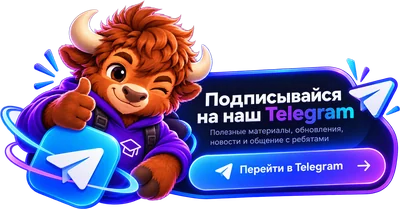
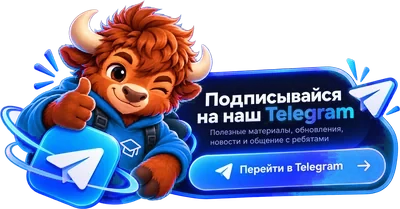
feat(brand): blue glow for the bison and brand art, bot images in blue
The approved sky-blue palette reaches the raster art: violet glows and
highlights of the logo bison, support/hero/landing mascots, onboarding,
Telegram promo and learning icons are shifted to the accent blue (fur,
eyes and horns untouched). Bot welcome and iOS-guide images re-rendered
from their HTML sources with blue accents; the bot re-uploads them by
hash. Subject icons, level and streak tiers keep their colours.

Claude-Session: https://claude.ai/code/session_01V5aXJ7wVgr1fgsBGegHuoa

diff --git a/apps/worker/assets/source/ios-install.html b/apps/worker/assets/source/ios-install.html
@@ -15,7 +15,7 @@
         height: 100%;
         padding: 64px 64px 48px;
         background:
-          radial-gradient(70% 40% at 100% 0%, rgba(139, 20, 245, 0.4), transparent 70%), var(--bg);
+          radial-gradient(70% 40% at 100% 0%, rgba(43, 143, 240, 0.38), transparent 70%), var(--bg);
       }
       header {
         display: flex;
@@ -135,7 +135,7 @@
         border-bottom: 1px solid #e5e5ea;
       }
       .menu .hit {
-        background: rgba(206, 61, 253, 0.16);
+        background: rgba(90, 184, 253, 0.16);
         outline: 4px solid var(--violet-end);
         border-radius: 10px;
         font-weight: 700;
@@ -166,7 +166,7 @@
         gap: 14px;
         padding: 10px 18px;
         border-radius: 18px;
-        background: linear-gradient(160deg, #2a2a5a, #503080);
+        background: linear-gradient(160deg, #14305a, #1f5a96);
       }
       .home i {
         width: 56px;

diff --git a/apps/worker/assets/source/welcome.html b/apps/worker/assets/source/welcome.html
@@ -16,7 +16,7 @@
         height: 100%;
         padding: 72px 80px;
         background:
-          radial-gradient(60% 80% at 82% 60%, rgba(139, 20, 245, 0.45), transparent 70%),
+          radial-gradient(60% 80% at 82% 60%, rgba(43, 143, 240, 0.42), transparent 70%),
           radial-gradient(40% 50% at 10% 0%, rgba(77, 163, 255, 0.22), transparent 70%), var(--bg);
         overflow: hidden;
       }
@@ -63,7 +63,7 @@
         padding: 14px 24px;
         border-radius: 999px;
         background: rgba(255, 255, 255, 0.07);
-        box-shadow: inset 0 0 0 1px rgba(206, 61, 253, 0.45);
+        box-shadow: inset 0 0 0 1px rgba(90, 184, 253, 0.45);
         font-weight: 600;
         font-size: 26px;
       }

diff --git a/apps/worker/assets/source/fonts.css b/apps/worker/assets/source/fonts.css
@@ -54,8 +54,8 @@
 :root {
   --bg: #05070f;
   --surface: #0d1226;
-  --violet: #8b14f5;
-  --violet-end: #ce3dfd;
+  --violet: #2b8ff0;
+  --violet-end: #5ab8fd;
   --blue: #4da3ff;
   --text: #f4f5fb;
   --muted: #9aa6bf;
